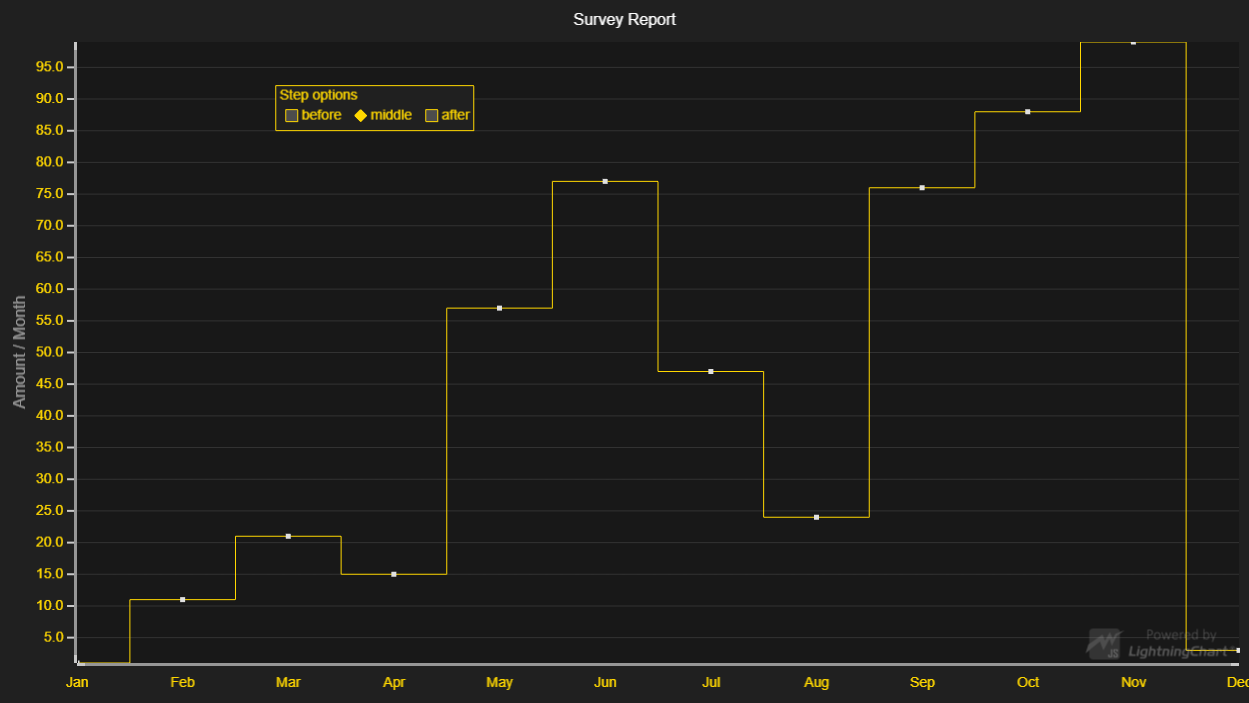
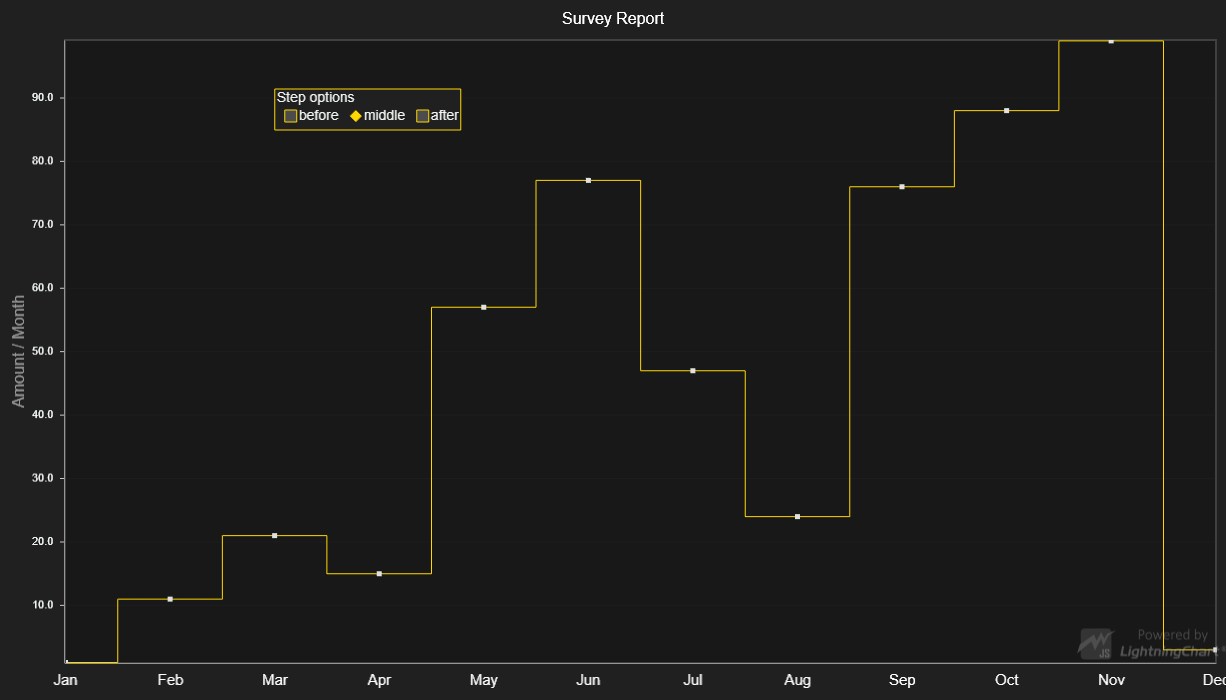
LCJS 2.0.0

diff --git a/src/index.js b/src/index.js
@@ -15,19 +15,17 @@ const {
     UIOrigins,
     emptyFill,
     emptyLine,
-    emptyTick
+    AxisTickStrategies,
+    SolidFill,
+    Themes
 } = lcjs
 
-const chart = lightningChart().ChartXY().setTitle('Survey Report')
+const chart = lightningChart().ChartXY({
+    // theme: Themes.dark
+}).setTitle('Survey Report')
 
 const reportTableXlabel = ['January', 'February', 'March', 'April', 'May', 'June', 'July',
     'August', 'September', 'October', 'November', 'December']
-
-// X-axis of the series
-const xAxis = chart.getDefaultAxisX()
-    .setMouseInteractions(false)
-    // Disable default ticks.
-    .setTickStyle(emptyTick)
 
 // Create step series for each available step-option.
 // The step-function can not be changed during runtime!
@@ -53,7 +51,7 @@ addSeries(StepOptions.after)
 const axisX = chart.getDefaultAxisX()
     .setMouseInteractions(false)
     // Disable default ticks.
-    .setTickStyle(emptyTick)
+    .setTickStrategy(AxisTickStrategies.Empty)
 
 // Enable AutoCursor auto-fill.
 chart.setAutoCursor(cursor => {
@@ -108,6 +106,7 @@ changedData.forEach((_, index) => {
                 .setFillStyle(emptyFill)
                 .setStrokeStyle(emptyLine)
             )
+            .setTextFillStyle(new SolidFill())
         )
     x += 1
 })

diff --git a/README.md b/README.md
@@ -45,15 +45,15 @@ The series accepts points in format `{ x: number, y: number: color: Color }` wit
 
 ## API Links
 
-* XY cartesian chart: [ChartXY]
-* Step options: [StepOptions]
-* Individual point coloring: [IndividualPointFill]
-* UI layout builders: [UILayoutBuilders]
-* UI backgrounds: [UIBackgrounds]
-* UI elements builders: [UIElementBuilders]
-* UI button pictures: [UIButtonPictures]
-* UI position origins: [UIOrigins]
-* Progressive random generator: [ProgressiveRandomGenerator]
+* [XY cartesian chart]
+* [Step options]
+* [Individual point coloring]
+* [UI layout builders]
+* [UI backgrounds]
+* [UI elements builders]
+* [UI button pictures]
+* [UI position origins]
+* [Progressive random generator]
 
 
 ## Support
@@ -77,13 +77,13 @@ Direct developer email support can be purchased through a [Support Plan][4] or b
 © Arction Ltd 2009-2020. All rights reserved.
 
 
-[ChartXY]: https://www.arction.com/lightningchart-js-api-documentation/v1.3.0/classes/chartxy.html
-[StepOptions]: https://www.arction.com/lightningchart-js-api-documentation/v1.3.0/enums/stepoptions.html
-[IndividualPointFill]: https://www.arction.com/lightningchart-js-api-documentation/v1.3.0/classes/individualpointfill.html
-[UILayoutBuilders]: https://www.arction.com/lightningchart-js-api-documentation/v1.3.0/globals.html#uilayoutbuilders
-[UIBackgrounds]: https://www.arction.com/lightningchart-js-api-documentation/v1.3.0/globals.html#uibackgrounds
-[UIElementBuilders]: https://www.arction.com/lightningchart-js-api-documentation/v1.3.0/globals.html#uielementbuilders
-[UIButtonPictures]: https://www.arction.com/lightningchart-js-api-documentation/v1.3.0/globals.html#uibuttonpictures
-[UIOrigins]: https://www.arction.com/lightningchart-js-api-documentation/v1.3.0/globals.html#uiorigins
-[ProgressiveRandomGenerator]: https://arction.github.io/xydata/classes/progressiverandomgenerator.html
+[XY cartesian chart]: https://www.arction.com/lightningchart-js-api-documentation/v2.0.0/classes/chartxy.html
+[Step options]: https://www.arction.com/lightningchart-js-api-documentation/v2.0.0/enums/stepoptions.html
+[Individual point coloring]: https://www.arction.com/lightningchart-js-api-documentation/v2.0.0/classes/individualpointfill.html
+[UI layout builders]: https://www.arction.com/lightningchart-js-api-documentation/v2.0.0/globals.html#uilayoutbuilders
+[UI backgrounds]: https://www.arction.com/lightningchart-js-api-documentation/v2.0.0/globals.html#uibackgrounds
+[UI elements builders]: https://www.arction.com/lightningchart-js-api-documentation/v2.0.0/globals.html#uielementbuilders
+[UI button pictures]: https://www.arction.com/lightningchart-js-api-documentation/v2.0.0/globals.html#uibuttonpictures
+[UI position origins]: https://www.arction.com/lightningchart-js-api-documentation/v2.0.0/globals.html#uiorigins
+[Progressive random generator]: https://arction.github.io/xydata/classes/progressiverandomgenerator.html
 
